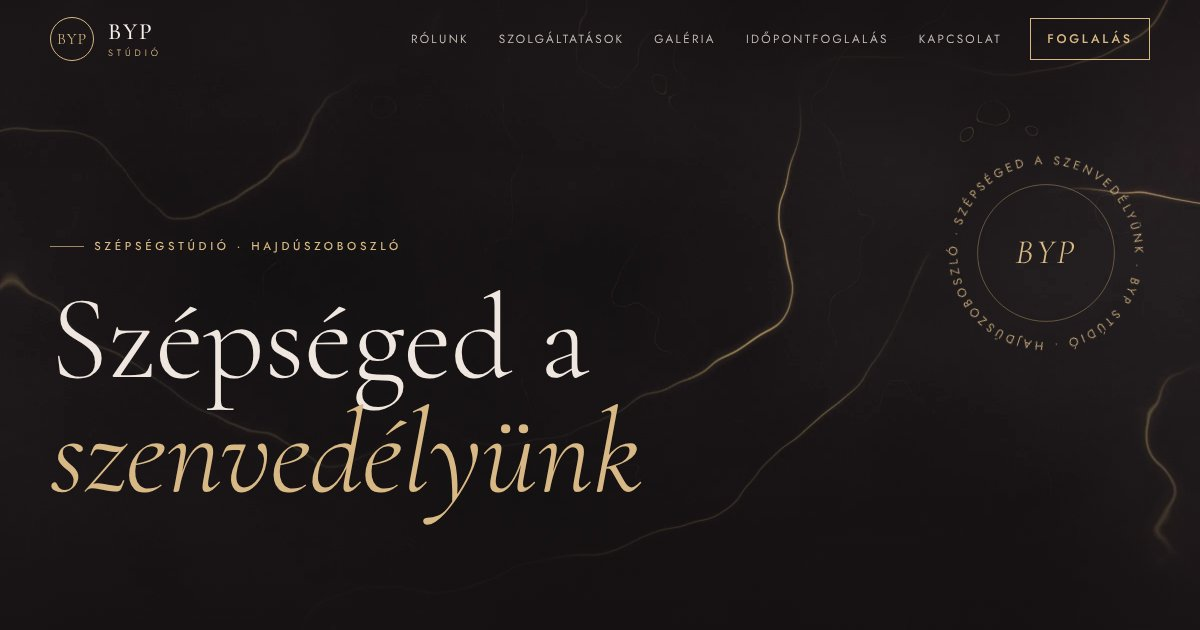
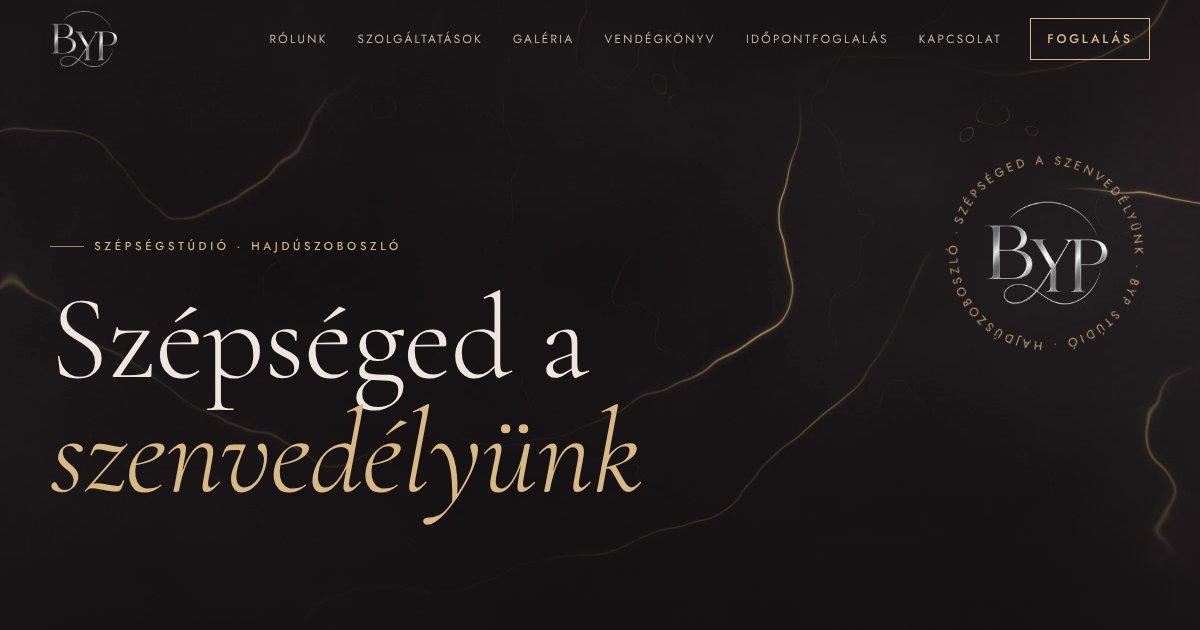
Add files via upload

diff --git a/public/index.html b/public/index.html
@@ -9,7 +9,9 @@
 <meta property="og:title" content="BYP Stúdió · Szépséged a szenvedélyünk">
 <meta property="og:description" content="Fodrászat, köröm, pedikűr, szempilla és fülbelövés Hajdúszoboszlón. Online időpontfoglalás.">
 <meta property="og:image" content="/assets/img/og.jpg">
-<link rel="icon" href="/assets/img/favicon.svg" type="image/svg+xml">
+<link rel="icon" href="/assets/img/favicon-48.png" type="image/png" sizes="48x48">
+<link rel="icon" href="/assets/img/favicon-512.png" type="image/png" sizes="512x512">
+<link rel="apple-touch-icon" href="/assets/img/apple-touch-icon.png">
 <link rel="preload" href="/assets/fonts/cormorant-garamond-latin-wght-normal.woff2" as="font" type="font/woff2" crossorigin>
 <link rel="preload" as="image" href="/assets/img/marble-noir.webp">
 <link rel="stylesheet" href="/assets/css/site.css">
@@ -66,8 +68,7 @@
 <header class="site-head" id="head">
   <div class="wrap">
     <a class="logo" href="#top" aria-label="BYP Stúdió, kezdőlap">
-      <span class="logo-mark">BYP</span>
-      <span class="logo-word"><b>BYP</b><small>Stúdió</small></span>
+      <img class="logo-img" src="/assets/img/logo-monogram.png" alt="BYP Studio" width="359" height="300">
     </a>
     <nav class="nav" id="nav" aria-label="Fő menü">
       <a href="#rolunk">Rólunk</a>
@@ -87,8 +88,7 @@
     <svg class="hero-badge" viewBox="0 0 200 200" aria-hidden="true">
       <defs><path id="ring" d="M100,100 m-78,0 a78,78 0 1,1 156,0 a78,78 0 1,1 -156,0"/></defs>
       <g class="spin"><text><textPath href="#ring" textLength="486">SZÉPSÉGED A SZENVEDÉLYÜNK · BYP STÚDIÓ · HAJDÚSZOBOSZLÓ ·</textPath></text></g>
-      <circle cx="100" cy="100" r="60" fill="none" stroke="currentColor" stroke-width=".6" opacity=".55"/>
-      <text x="100" y="109" text-anchor="middle" class="mono">BYP</text>
+      <image href="/assets/img/logo-monogram.png" x="46" y="55" width="108" height="90" preserveAspectRatio="xMidYMid meet"/>
     </svg>
     <div class="wrap">
       <p class="eyebrow rv">Szépségstúdió · Hajdúszoboszló</p>
@@ -165,12 +165,15 @@
         <form class="gb-form" id="gbForm" novalidate>
           <fieldset class="stars-field">
             <legend>Értékelés</legend>
-            <div class="stars" id="gbStars">
-              <input type="radio" name="rating" id="r5" value="5" checked><label for="r5" title="5 csillag"><svg class="ico"><use href="#i-star"/></svg><span class="sr">5 csillag</span></label>
-              <input type="radio" name="rating" id="r4" value="4"><label for="r4" title="4 csillag"><svg class="ico"><use href="#i-star"/></svg><span class="sr">4 csillag</span></label>
-              <input type="radio" name="rating" id="r3" value="3"><label for="r3" title="3 csillag"><svg class="ico"><use href="#i-star"/></svg><span class="sr">3 csillag</span></label>
-              <input type="radio" name="rating" id="r2" value="2"><label for="r2" title="2 csillag"><svg class="ico"><use href="#i-star"/></svg><span class="sr">2 csillag</span></label>
-              <input type="radio" name="rating" id="r1" value="1"><label for="r1" title="1 csillag"><svg class="ico"><use href="#i-star"/></svg><span class="sr">1 csillag</span></label>
+            <div class="stars-row">
+              <div class="stars" id="gbStars" role="radiogroup" aria-label="Értékelés 1-től 5 csillagig">
+                <button type="button" class="star" data-v="1" role="radio" aria-checked="false" aria-label="1 csillag" tabindex="0"><svg class="ico"><use href="#i-star"/></svg></button>
+                <button type="button" class="star" data-v="2" role="radio" aria-checked="false" aria-label="2 csillag" tabindex="-1"><svg class="ico"><use href="#i-star"/></svg></button>
+                <button type="button" class="star" data-v="3" role="radio" aria-checked="false" aria-label="3 csillag" tabindex="-1"><svg class="ico"><use href="#i-star"/></svg></button>
+                <button type="button" class="star" data-v="4" role="radio" aria-checked="false" aria-label="4 csillag" tabindex="-1"><svg class="ico"><use href="#i-star"/></svg></button>
+                <button type="button" class="star" data-v="5" role="radio" aria-checked="false" aria-label="5 csillag" tabindex="-1"><svg class="ico"><use href="#i-star"/></svg></button>
+              </div>
+              <span class="stars-label" id="gbStarsLabel">Kattints a csillagokra</span>
             </div>
           </fieldset>
           <div class="form">
@@ -295,7 +298,8 @@
 
 <footer class="site-foot">
   <div class="wrap">
-    <span>© <span id="year">2026</span> BYP Stúdió · Hajdúszoboszló, Luther u. 11.</span>
+    <img class="foot-logo" src="/assets/img/logo-full.png" alt="BYP Studio – Szépséged a szenvedélyünk" width="610" height="700" loading="lazy">
+    <span>© <span id="year">2026</span> BYP Studio · Hajdúszoboszló, Luther u. 11.</span>
     <span><a href="/adatkezeles.html">Adatkezelési tájékoztató</a></span>
   </div>
 </footer>

diff --git a/public/assets/css/site.css b/public/assets/css/site.css
@@ -54,6 +54,9 @@ p{margin:0}
 .site-head.solid{background:rgba(20,16,18,.94);backdrop-filter:blur(10px);box-shadow:0 1px 0 var(--noir-line)}
 .site-head .wrap{display:flex;align-items:center;gap:28px;height:78px}
 .logo{display:flex;align-items:center;gap:14px;text-decoration:none}
+.logo-img{height:62px;width:auto;display:block;filter:drop-shadow(0 1px 6px rgba(0,0,0,.35))}
+.foot-logo{flex:0 0 100%;height:170px;object-fit:contain;margin-bottom:18px}
+.site-foot .wrap > .foot-logo{display:block}
 .logo-mark{width:44px;height:44px;border:1px solid var(--gold-lt);border-radius:50%;display:grid;place-items:center;font-family:var(--f-display);font-size:1rem;letter-spacing:.06em;color:var(--gold-lt)}
 .logo-word{display:grid;line-height:1}
 .logo-word b{font-family:var(--f-display);font-weight:500;font-size:1.45rem;letter-spacing:.08em}
@@ -282,14 +285,15 @@ p{margin:0}
 .gb-form{display:grid;gap:24px;min-width:0}
 .stars-field{border:0;margin:0;padding:0;display:grid;gap:10px}
 .stars-field legend{font-size:.7rem;letter-spacing:.2em;text-transform:uppercase;color:var(--stone);font-weight:500;padding:0;margin-bottom:10px}
-.stars{display:inline-flex;flex-direction:row-reverse;justify-content:flex-end;gap:4px}
-.stars input{position:absolute;opacity:0;pointer-events:none}
-.stars label{cursor:pointer;font-size:2rem;color:var(--gold);padding:2px;line-height:0}
-.stars label .ico{stroke-width:1;transition:fill .15s,transform .15s}
-.stars input:checked ~ label .ico,.stars label:hover .ico,.stars label:hover ~ label .ico{fill:currentColor}
-.stars:hover input:checked ~ label .ico{fill:none}
-.stars:hover label:hover .ico,.stars:hover label:hover ~ label .ico{fill:currentColor}
-.stars input:focus-visible + label{outline:1.5px solid var(--gold);outline-offset:2px}
+.stars-row{display:flex;flex-wrap:wrap;align-items:center;gap:8px 18px}
+.stars{display:inline-flex;gap:2px}
+.star{background:none;border:0;padding:4px;margin:0;line-height:0;font-size:2.1rem;color:var(--gold);cursor:pointer;-webkit-tap-highlight-color:transparent}
+.star .ico{stroke-width:1;fill:transparent;transition:fill .15s,transform .15s}
+.star.on .ico{fill:currentColor}
+.star:hover .ico{transform:scale(1.12)}
+.star:focus-visible{outline:1.5px solid var(--gold);outline-offset:1px}
+.stars-label{font-size:.85rem;color:var(--stone);min-width:9em}
+.stars-label.set{color:var(--ink);font-family:var(--f-display);font-size:1.25rem;font-style:italic}
 .field select{appearance:none;background-image:linear-gradient(45deg,transparent 50%,var(--gold) 50%),linear-gradient(135deg,var(--gold) 50%,transparent 50%);background-position:calc(100% - 12px) 55%,calc(100% - 7px) 55%;background-size:5px 5px;background-repeat:no-repeat}
 @media (max-width:860px){ .gb-write{grid-template-columns:1fr} }
 
@@ -311,6 +315,7 @@ p{margin:0}
 
 .site-foot{background:#0e0b0c;color:#8f847d;font-size:.8rem;padding-block:34px calc(34px + env(safe-area-inset-bottom,0px))}
 .site-foot .wrap{display:flex;flex-wrap:wrap;gap:12px 30px;justify-content:space-between;align-items:center}
+.site-foot{padding-top:56px}
 .site-foot a{text-decoration:none}
 .site-foot a:hover{color:var(--gold-lt)}
 

diff --git a/public/assets/js/site.js b/public/assets/js/site.js
@@ -259,6 +259,27 @@
     }
     $('#gbMoreWrap').hidden = gbEntries.length <= gbShown;
   }
+  // csillagos értékelés: kattintásra az adott és az előtte lévő csillagok színeződnek be
+  let gbRating = 0;
+  const LABELS = ['', 'Nem voltam elégedett', 'Lehetett volna jobb', 'Jó volt', 'Nagyon jó volt', 'Kiváló!'];
+  const starBtns = [...document.querySelectorAll('#gbStars .star')];
+  const paintStars = n => starBtns.forEach((b, i) => b.classList.toggle('on', i < n));
+  const setRating = n => {
+    gbRating = n; paintStars(n);
+    starBtns.forEach((b, i) => { b.setAttribute('aria-checked', String(i + 1 === n)); b.tabIndex = (n ? i + 1 === n : i === 0) ? 0 : -1; });
+    const lab = $('#gbStarsLabel'); lab.textContent = n ? LABELS[n] : 'Kattints a csillagokra'; lab.classList.toggle('set', !!n);
+  };
+  starBtns.forEach((b, i) => {
+    b.addEventListener('click', () => setRating(i + 1));
+    b.addEventListener('mouseenter', () => paintStars(i + 1));
+    b.addEventListener('keydown', e => {
+      const k = { ArrowRight: 1, ArrowUp: 1, ArrowLeft: -1, ArrowDown: -1 }[e.key];
+      if (!k) return; e.preventDefault();
+      const n = Math.min(5, Math.max(1, (gbRating || i + 1) + (gbRating ? k : 0)));
+      setRating(n); starBtns[n - 1].focus();
+    });
+  });
+  $('#gbStars').addEventListener('mouseleave', () => paintStars(gbRating));
   $('#gbMore').addEventListener('click', () => { gbShown += 6; renderGuestbook(); });
   const netlifyForm = (name, data) => fetch('/', { method: 'POST', headers: { 'content-type': 'application/x-www-form-urlencoded' }, body: new URLSearchParams({ 'form-name': name, ...data }).toString() }).catch(() => {});
   const thanks = (title, text) => el('div', { class: 'thanks' }, el('div', { class: 'ring' }, icon('check')), el('h3', {}, title), el('p', { class: 'muted', style: 'max-width:44ch' }, text));
@@ -266,7 +287,8 @@
     e.preventDefault();
     const st = $('#gbStatus'), btn = $('#gbSubmit'); st.className = 'status err';
     const name = $('#gbName').value.trim(), text = $('#gbText').value.trim();
-    const rating = Number(document.querySelector('#gbStars input:checked')?.value || 0);
+    const rating = gbRating;
+    if (!rating) { st.textContent = 'Kattints a csillagokra az értékeléshez.'; starBtns[0].focus(); return; }
     if (name.length < 2) { st.textContent = 'Add meg a neved (keresztnév is elég).'; $('#gbName').focus(); return; }
     if (text.length < 5) { st.textContent = 'Írj néhány szót a bejegyzésbe.'; $('#gbText').focus(); return; }
     if (!$('#gbConsent').checked) { st.textContent = 'Fogadd el, hogy a bejegyzésed megjelenjen az oldalon.'; return; }

diff --git a/public/feltoltes/index.html b/public/feltoltes/index.html
@@ -5,7 +5,9 @@
 <meta name="viewport" content="width=device-width,initial-scale=1,viewport-fit=cover">
 <meta name="robots" content="noindex,nofollow">
 <title>Stúdió kezelőfelület · BYP Stúdió</title>
-<link rel="icon" href="/assets/img/favicon.svg" type="image/svg+xml">
+<link rel="icon" href="/assets/img/favicon-48.png" type="image/png" sizes="48x48">
+<link rel="icon" href="/assets/img/favicon-512.png" type="image/png" sizes="512x512">
+<link rel="apple-touch-icon" href="/assets/img/apple-touch-icon.png">
 <link rel="preload" href="/assets/fonts/cormorant-garamond-latin-wght-normal.woff2" as="font" type="font/woff2" crossorigin>
 <link rel="stylesheet" href="/assets/css/site.css">
 <style>
@@ -113,7 +115,7 @@ body{background:var(--pearl) url("/assets/img/silk-pearl.webp") center/cover fix
   <path d="M5 3a2 2 0 0 0-2 2v6a2 2 0 0 0 2 2 1 1 0 0 1 1 1v1a2 2 0 0 1-2 2 1 1 0 0 0-1 1v2a1 1 0 0 0 1 1 6 6 0 0 0 6-6V5a2 2 0 0 0-2-2z" /></symbol><symbol id="i-message" viewBox="0 0 24 24"><path d="M2.992 16.342a2 2 0 0 1 .094 1.167l-1.065 3.29a1 1 0 0 0 1.236 1.168l3.413-.998a2 2 0 0 1 1.099.092 10 10 0 1 0-4.777-4.719" /></symbol></svg><!--SPRITE:END-->
 <header class="adm-head">
   <div class="wrap">
-    <a class="logo" href="/"><span class="logo-mark">BYP</span><span class="logo-word"><b>BYP</b><small>Kezelőfelület</small></span></a>
+    <a class="logo" href="/" aria-label="BYP Studio, főoldal"><img class="logo-img" src="/assets/img/logo-monogram.png" alt="BYP Studio" width="359" height="300"><span class="logo-word"><small>Kezelőfelület</small></span></a>
     <nav class="tabs" id="tabs" role="tablist" hidden>
       <button class="tab" role="tab" data-tab="galeria" aria-selected="true">Galéria</button>
       <button class="tab" role="tab" data-tab="foglalasok" aria-selected="false">Foglalások</button>

diff --git a/public/adatkezeles.html b/public/adatkezeles.html
@@ -4,7 +4,9 @@
 <meta charset="utf-8">
 <meta name="viewport" content="width=device-width,initial-scale=1,viewport-fit=cover">
 <title>Adatkezelési tájékoztató · BYP Stúdió</title>
-<link rel="icon" href="/assets/img/favicon.svg" type="image/svg+xml">
+<link rel="icon" href="/assets/img/favicon-48.png" type="image/png" sizes="48x48">
+<link rel="icon" href="/assets/img/favicon-512.png" type="image/png" sizes="512x512">
+<link rel="apple-touch-icon" href="/assets/img/apple-touch-icon.png">
 <link rel="preload" href="/assets/fonts/cormorant-garamond-latin-wght-normal.woff2" as="font" type="font/woff2" crossorigin>
 <link rel="stylesheet" href="/assets/css/site.css">
 <style>
